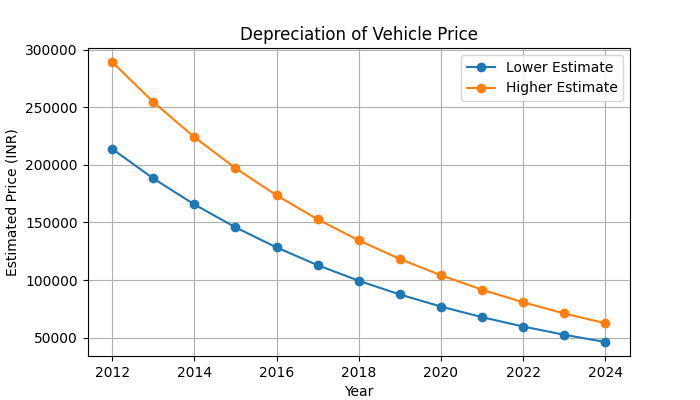
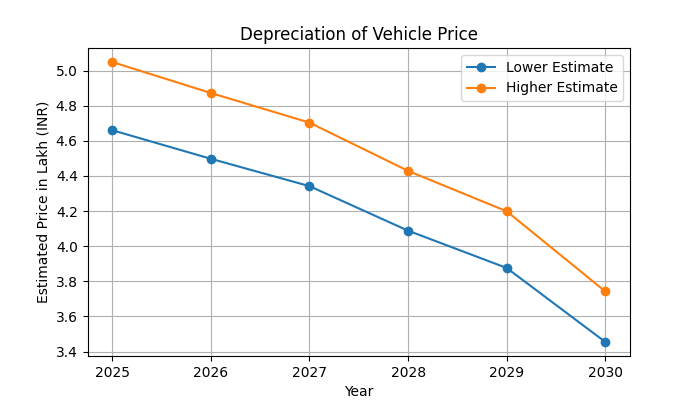
Report Integrated and sent via API

diff --git a/flask-api.py b/flask-api.py
@@ -1,15 +1,25 @@
-from flask import Flask, request, jsonify
+from flask import Flask, request, jsonify, send_file, make_response
 import joblib
 import pandas as pd
+import numpy as np
+import matplotlib
+import matplotlib.pyplot as plt
 from datetime import datetime
+from reportlab.platypus import SimpleDocTemplate, Paragraph, Table, TableStyle, Spacer, Image
+from reportlab.lib.pagesizes import letter
+from reportlab.lib.styles import getSampleStyleSheet
+from reportlab.lib import colors
+from io import BytesIO
+import json  
+import base64
+
 
 current_year = datetime.now().year
+matplotlib.use('Agg')
 
 
 def process_car_data(brand, model, year, km_driven, mileage, engine_capacity, seats, fuel_type, transmission):
-    # Load the model
     model = joblib.load('Predict-Car-V2.pkl')
-    # print("YEAR : ", year)
     print("CURRENT_YEAR : ", current_year - year)
     df = pd.DataFrame({
             'Brand': [brand],
@@ -24,51 +34,117 @@ def process_car_data(brand, model, year, km_driven, mileage, engine_capacity, se
         })
     
     df_encoded = pd.get_dummies(df)
-
     training_columns = []
 
     with open('column_names.txt', 'r') as f:
         for line in f:
             training_columns.append(line.strip())
 
-
-    # Reindex the encoded DataFrame to match the training columns
     df_encoded = df_encoded.reindex(columns=training_columns, fill_value=0)
-
-
-    # Make predictions
     predictions = model.predict(df_encoded)
-
     price = int(predictions[0])
 
-    # l = price - ( price * 0.15 )
-    # h = price + ( price * 0.15 )
-
-    # print("low = ", l)
-    # print("high = ",h)
-
-    # return [price, l, h]
-    return price
+    l = price - ( price * 0.04 )
+    h = price + ( price * 0.04 )
+    return [price, l, h]
 
 
+def generate_depreciation_graph(model_year, price_range):
+    years = np.arange(current_year, current_year + len(price_range))
+    lower_values = [price_range[i][1]/100000 for i in range(len(price_range))]
+    higher_values = [price_range[i][2]/100000 for i in range(len(price_range))]
+
+    plt.figure(figsize=(7, 4))
+    plt.plot(years, lower_values, label='Lower Estimate', marker='o')
+    plt.plot(years, higher_values, label='Higher Estimate', marker='o')
+    plt.xlabel('Year')
+    plt.ylabel('Estimated Price in Lakh (INR)')
+    plt.title('Depreciation of Vehicle Price')
+    plt.legend()
+    plt.grid()
+
+    img_buffer = BytesIO()
+    plt.savefig(img_buffer, format='png')
+    plt.close()
+    img_buffer.seek(0)
+    return img_buffer
+
+def generate_pdf_report(input_data, price_range, filename="Car_Price_Report.pdf"):
+    pdf_buffer = BytesIO()
+    doc = SimpleDocTemplate(pdf_buffer, pagesize=letter)
+    styles = getSampleStyleSheet()
+    elements = []
+    
+    elements.append(Paragraph("Car Price Report", styles["Title"]))
+    table_data = [["Attribute", "Value"]] + [[k, str(v)] for k, v in input_data.items()]
+    table = Table(table_data, colWidths=[150, 250])
+    table.setStyle(TableStyle([
+        ('BACKGROUND', (0, 0), (-1, 0), colors.grey),
+        ('TEXTCOLOR', (0, 0), (-1, 0), colors.whitesmoke),
+        ('ALIGN', (0, 0), (-1, -1), 'LEFT'),
+        ('FONTNAME', (0, 0), (-1, 0), 'Helvetica-Bold'),
+        ('BOTTOMPADDING', (0, 0), (-1, 0), 12),
+        ('BACKGROUND', (0, 1), (-1, -1), colors.beige),
+        ('GRID', (0, 0), (-1, -1), 1, colors.black)
+    ]))
+    elements.append(table)
+    lower_price = price_range[0][1]
+    higher_price =  price_range[0][2]
+
+    elements.append(Paragraph(f"Predicted Price Range: INR {(lower_price/100000):.2f} L - INR {(higher_price/100000):.2f} L", styles["Heading2"]))
+    
+    elements.append(Paragraph("Depreciation Graph:", styles["Heading2"]))
+
+    img_buffer = generate_depreciation_graph(input_data["M-Year"], price_range)
+
+    image = Image(img_buffer, width=400, height=230)
+    image.hAlign = 'CENTER'
+    elements.append(image)
+
+    elements.append(Spacer(1, 24))
+    elements.append(Paragraph(f"Report generated on {datetime.now().strftime('%d %B %Y')}", styles["Italic"]))
+    elements.append(Paragraph("Note: This valuation is an estimate based on current market trends.", styles["Italic"]))
+    
+    doc.build(elements)
+    pdf_buffer.seek(0)
+    return pdf_buffer
 
 
+def generate_combined_response(input_data):
+    """Generate both JSON data and PDF report"""
+    try:
+        # Generate predictions for current year and next 5 years
+        price_predictions = []
+        for i in range(0, 6):
+            price_predictions.append(process_car_data(
+                input_data['Brand'], input_data['Model'], input_data['M-Year'] - i, 
+                input_data['KM-Driven'], input_data['Mileage'], input_data['Engine-Capacity'], 
+                input_data['Seats'], input_data['Fuel-Type'], input_data['Transmission']
+            ))
+        
+        # Prepare JSON response data
+        json_data = {
+            "status": "success",
+            "data": {
+                "current_price": price_predictions[0][0],
+                "price_range": [price_predictions[0][1], price_predictions[0][2]],
+                "depreciation_forecast": [
+                    {
+                        "year": current_year + i,
+                        "price_range": [price_predictions[i][1], price_predictions[i][2]]
+                    } for i in range(len(price_predictions))
+                ]
+            }
+        }
+        
+        # Generate PDF report
+        pdf_buffer = generate_pdf_report(input_data, price_predictions)
+        
+        return json_data, pdf_buffer
+    
+    except Exception as e:
+        raise e
 
-# def process_car_data(brand, model, year, km_driven, mileage, engine_capacity, seats, fuel_type, transmission):
-#     # Dummy function to process input data (replace with actual logic)
-#     result = {
-#         "Brand": brand,
-#         "Model": model,
-#         "Manufacturing Year": year,
-#         "Kilometers Driven": km_driven,
-#         "Mileage": mileage,
-#         "Engine Capacity": engine_capacity,
-#         "Seats": seats,
-#         "Fuel Type": fuel_type,
-#         "Transmission": transmission,
-#         "Estimated Value": f"${round(float(year) * 0.8 * (1 - (int(km_driven)/100000)), 2)}"
-#     }
-#     return result
 
 app = Flask(__name__)
 
@@ -79,26 +155,72 @@ def process_car():
         required_fields = ['Brand', 'Model', 'M-Year', 'KM-Driven', 'Mileage', 'Engine-Capacity', 'Seats', 'Fuel-Type', 'Transmission']
         
         if not all(field in data for field in required_fields):
-            return jsonify({"error": "Missing required fields"}), 400
+            return jsonify({
+                "status": "error",
+                "message": "Missing required fields",
+                "required_fields": required_fields
+                }), 400
         
         # response = process_car_data(
         #     data['Brand'], data['Model'], data['M-Year'], data['KM-Driven'],
         #     data['Mileage'], data['Engine-Capacity'], data['Seats'], data['Fuel-Type'], data['Transmission']
         # )
+        # input_data = {
+        #     "Brand": "Hyundai",
+        #     "Model": "i20",
+        #     "M-Year": 2012,
+        #     "KM-Driven": 60000,
+        #     "Mileage": 17.00,
+        #     "Engine-Capacity": 1.2,
+        #     "Seats": 5,
+        #     "Fuel-Type": "Petrol",
+        #     "Transmission": "Manual"
+        # }
 
-        response = []
-
-        for i in range(0, 6):
-            response.append(process_car_data(data['Brand'], data['Model'], data['M-Year'] - i, data['KM-Driven'], data['Mileage'], data['Engine-Capacity'], data['Seats'], data['Fuel-Type'], data['Transmission']))
-
-        # print(response[0][0])
+        # response_data = []
         
-        l = float(response[0]) - ( float(response[0]) * 0.15 )
-        h = float(response[0]) + ( float(response[0]) * 0.15 )
+        # for i in range(0, 6):
+        #     response_data.append(process_car_data(
+        #         data['Brand'], data['Model'], data['M-Year'] - i, 
+        #         data['KM-Driven'], data['Mileage'], data['Engine-Capacity'], 
+        #         data['Seats'], data['Fuel-Type'], data['Transmission']))
+        
 
-        response.append({'l':l, 'h':h})
 
-        return jsonify(response)
+        # pdf_buffer = generate_pdf_report(data, price_predictions)
+
+        # pdf_response = make_response(send_file(
+        #     pdf_buffer,
+        #     as_attachment=True,
+        #     download_name=f"Car_Valuation_{data['Brand']}_{data['Model']}.pdf",
+        #     mimetype='application/pdf'
+        # ))
+
+        # response.headers['Access-Control-Allow-Origin'] = '*'
+        json_data, pdf_buffer = generate_combined_response(data)
+        
+        # Create a multipart response
+        response = make_response()
+        
+        # First part: JSON data
+        response.data = json.dumps(json_data).encode('utf-8')
+        response.headers['Content-Type'] = 'application/json'
+        
+        # Second part: PDF file
+        response.headers.add('X-PDF-File', 'true')
+        response.headers.add('Content-Disposition', 
+                           f'attachment; filename=Car_Valuation_{data["Brand"]}_{data["Model"]}.pdf')
+        response.headers.add('X-Content-Type-Options', 'nosniff')
+        response.headers.add('Access-Control-Expose-Headers', 'Content-Disposition,X-PDF-File')
+        
+        # Alternatively, you can send the PDF as a base64 encoded string in the JSON
+        # and let the frontend handle it
+        pdf_base64 = base64.b64encode(pdf_buffer.getvalue()).decode('utf-8')
+        json_data['pdf_report'] = pdf_base64
+        
+        return jsonify(json_data)
+
+        
     
     except Exception as e:
         return jsonify({"error": str(e)}), 500

diff --git a/report2.py b/report2.py
@@ -1,6 +1,5 @@
 from reportlab.lib.pagesizes import letter
 from reportlab.pdfgen import canvas
-# from reportlab.lib.utils import ImageReader
 from reportlab.platypus import SimpleDocTemplate, Paragraph, Table, TableStyle, Spacer, Image
 from reportlab.lib import colors
 from reportlab.lib.styles import getSampleStyleSheet
@@ -12,8 +11,6 @@ def generate_depreciation_graph(model_year, lower_price, higher_price):
     depreciation_rate = 0.12
     lower_values = [lower_price * ((1 - depreciation_rate) ** (year - model_year)) for year in years]
     higher_values = [higher_price * ((1 - depreciation_rate) ** (year - model_year)) for year in years]
-    
-    # plt.figure(figsize=(5, 3))
     plt.figure(figsize=(7, 4))
     plt.plot(years, lower_values, label='Lower Estimate', marker='o')
     plt.plot(years, higher_values, label='Higher Estimate', marker='o')
@@ -32,8 +29,6 @@ def generate_pdf_report(input_data, price_range, filename="Car_Price_Report.pdf"
     elements = []
     
     elements.append(Paragraph("Car Price Report", styles["Title"]))
-    # elements.append(Spacer(1, 12)) 
-    
     table_data = [["Attribute", "Value"]] + [[k, str(v)] for k, v in input_data.items()]
     table = Table(table_data, colWidths=[150, 250])
     table.setStyle(TableStyle([
@@ -46,25 +41,14 @@ def generate_pdf_report(input_data, price_range, filename="Car_Price_Report.pdf"
         ('GRID', (0, 0), (-1, -1), 1, colors.black)
     ]))
     elements.append(table)
-    # elements.append(Spacer(1, 12))
-    
     lower_price, higher_price = price_range
     elements.append(Paragraph(f"Predicted Price Range: INR {(lower_price/100000):.2f} L - INR {(higher_price/100000):.2f} L", styles["Heading2"]))
-    # elements.append(Paragraph(f"Lower Range: INR {lower_price:.2f}", styles["Normal"]))
-    # elements.append(Paragraph(f"Upper Range: INR {higher_price:.2f}", styles["Normal"]))
-    # elements.append(Spacer(1, 12))
-    
     generate_depreciation_graph(input_data["M-Year"], lower_price, higher_price)
-    # generate_pie_chart(input_data["Fuel-Type"], input_data["Transmission"])
     
     elements.append(Paragraph("Depreciation Graph:", styles["Heading2"]))
-    # elements.append(Spacer(1, 6))
-    # elements.append(ImageReader("depreciation.png"))
     image = Image("depreciation.png", width=400, height=230)
     image.hAlign = 'CENTER'
     elements.append(image)
-    
-    # elements.append(Spacer(2, 13))
     
     doc.build(elements)
     print(f"PDF report generated: {filename}")
